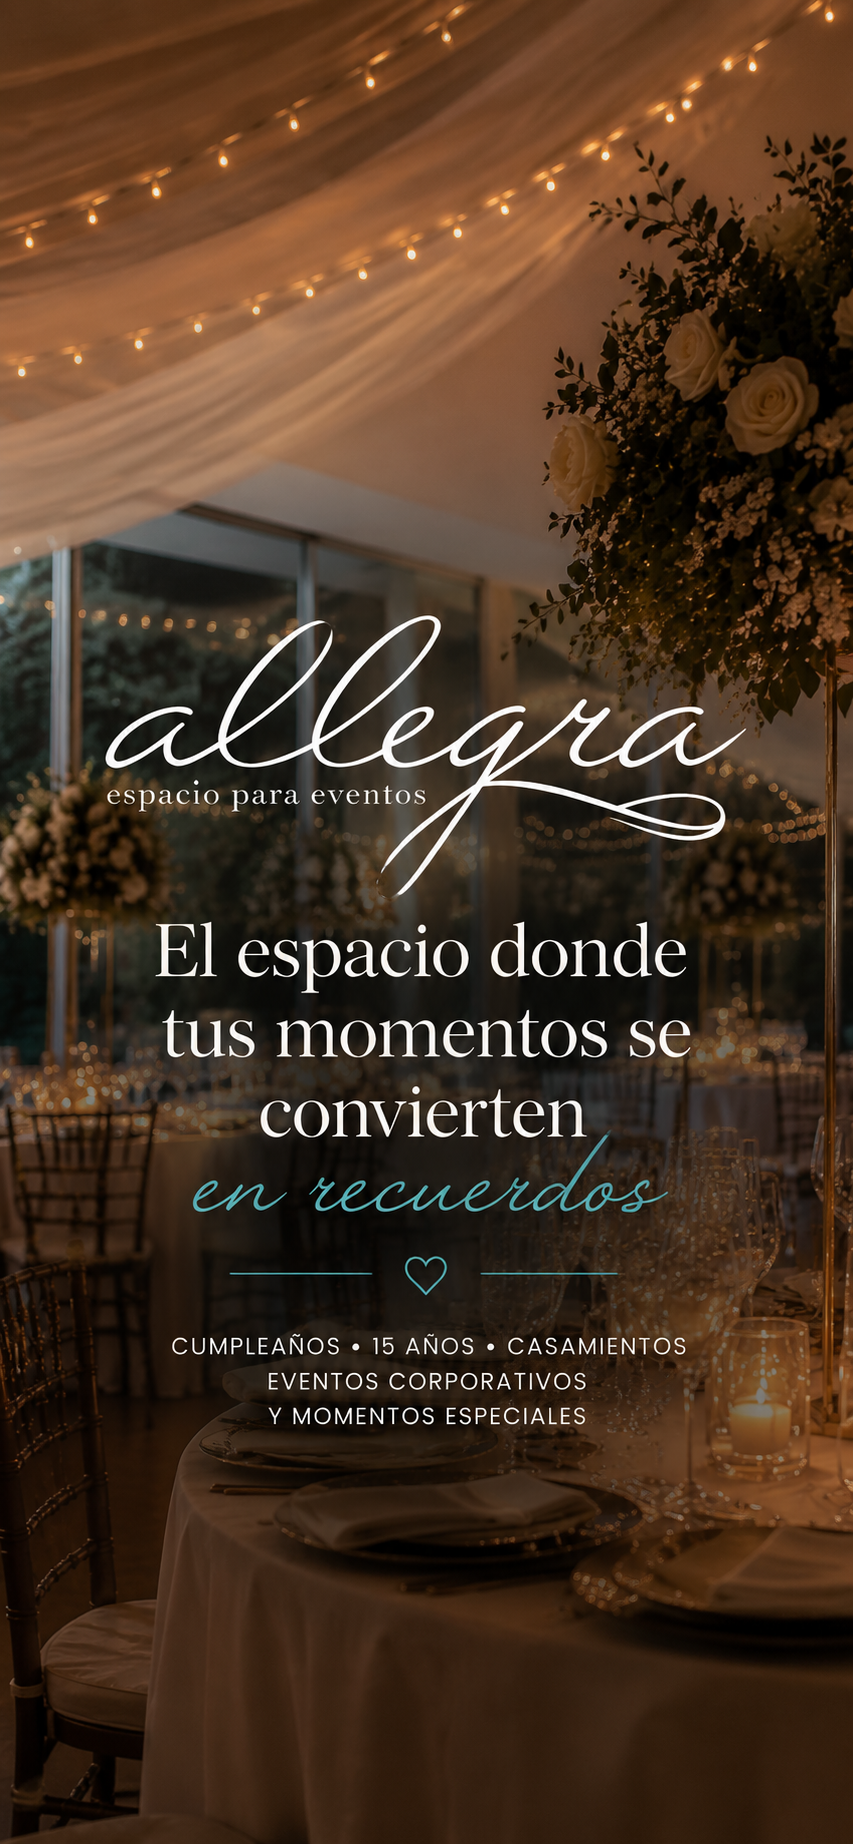
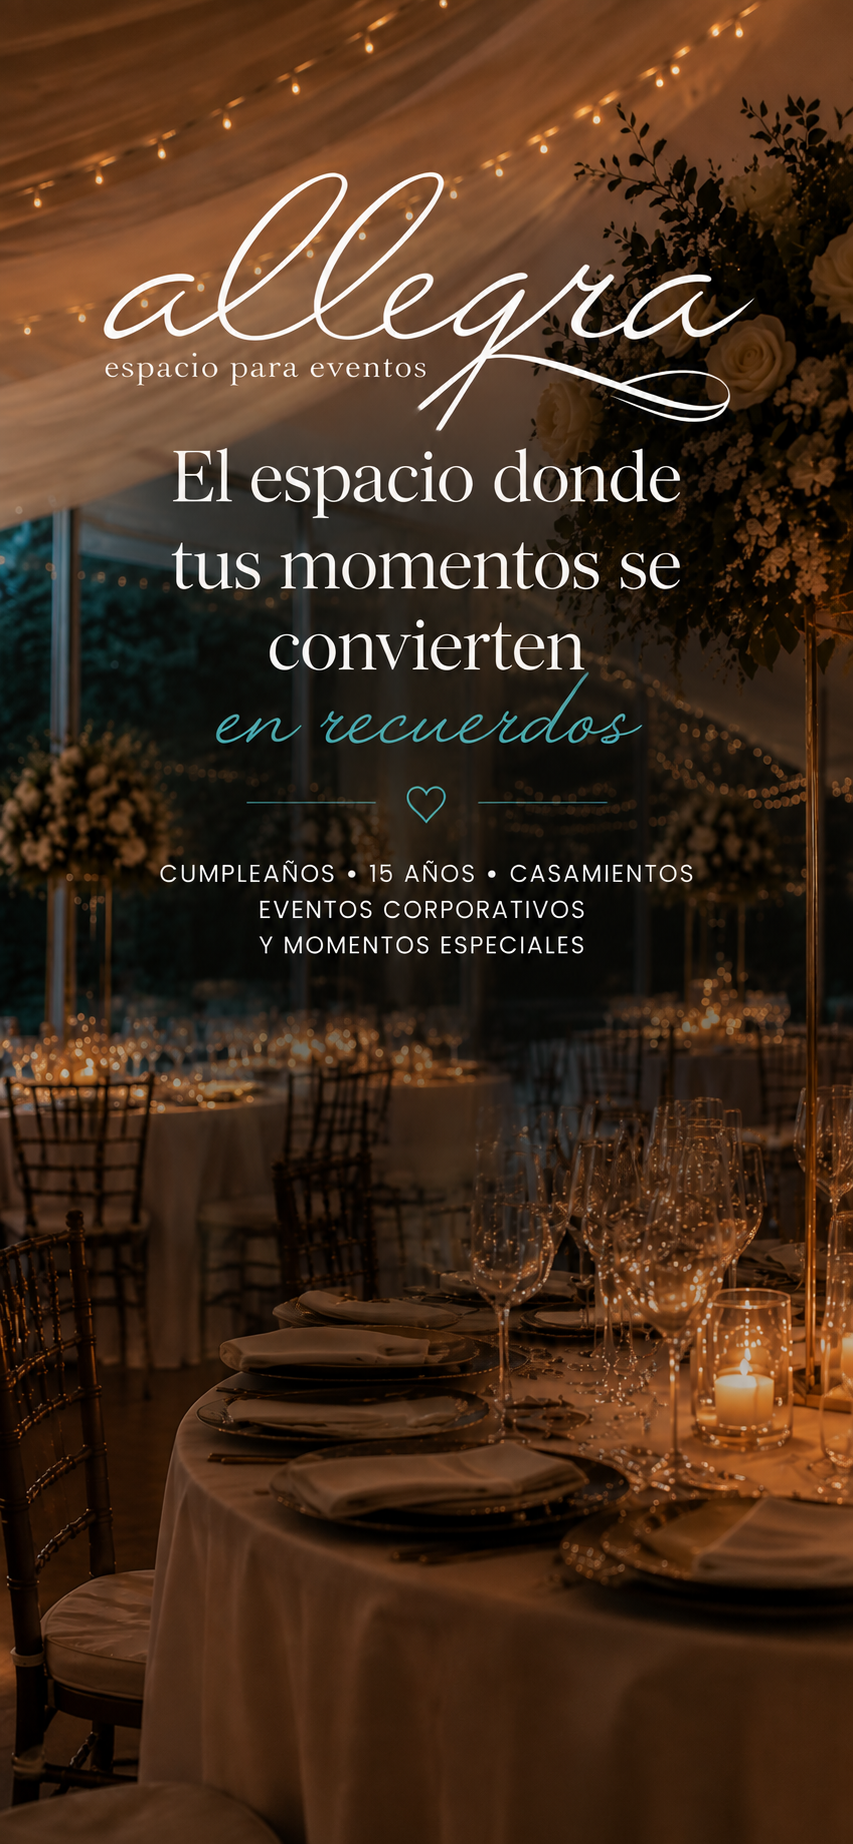
fixes mobile

diff --git a/components/sections/hero.tsx b/components/sections/hero.tsx
@@ -28,7 +28,7 @@ export function Hero () {
       <div className='absolute inset-x-0 top-0 h-24 bg-gradient-to-b from-deep/40 to-transparent' />
       <div className='absolute inset-x-0 bottom-0 h-40 bg-gradient-to-t from-deep/70 to-transparent md:h-36 md:from-deep/55' />
 
-      <Container className='relative z-10 flex w-full flex-col items-center text-center max-md:absolute max-md:inset-x-0 max-md:bottom-0 max-md:pb-[max(0.75rem,env(safe-area-inset-bottom))] md:pb-20 md:pt-32'>
+      <Container className='relative z-10 flex w-full flex-col items-center text-center max-md:absolute max-md:inset-x-0 max-md:bottom-[18%] md:pb-20 md:pt-32'>
         <h1 className='sr-only'>{siteConfig.headline}</h1>
         <div className='flex w-full flex-col items-center gap-3 sm:max-w-lg sm:flex-row sm:justify-center'>
           <OpenAssistantButton
